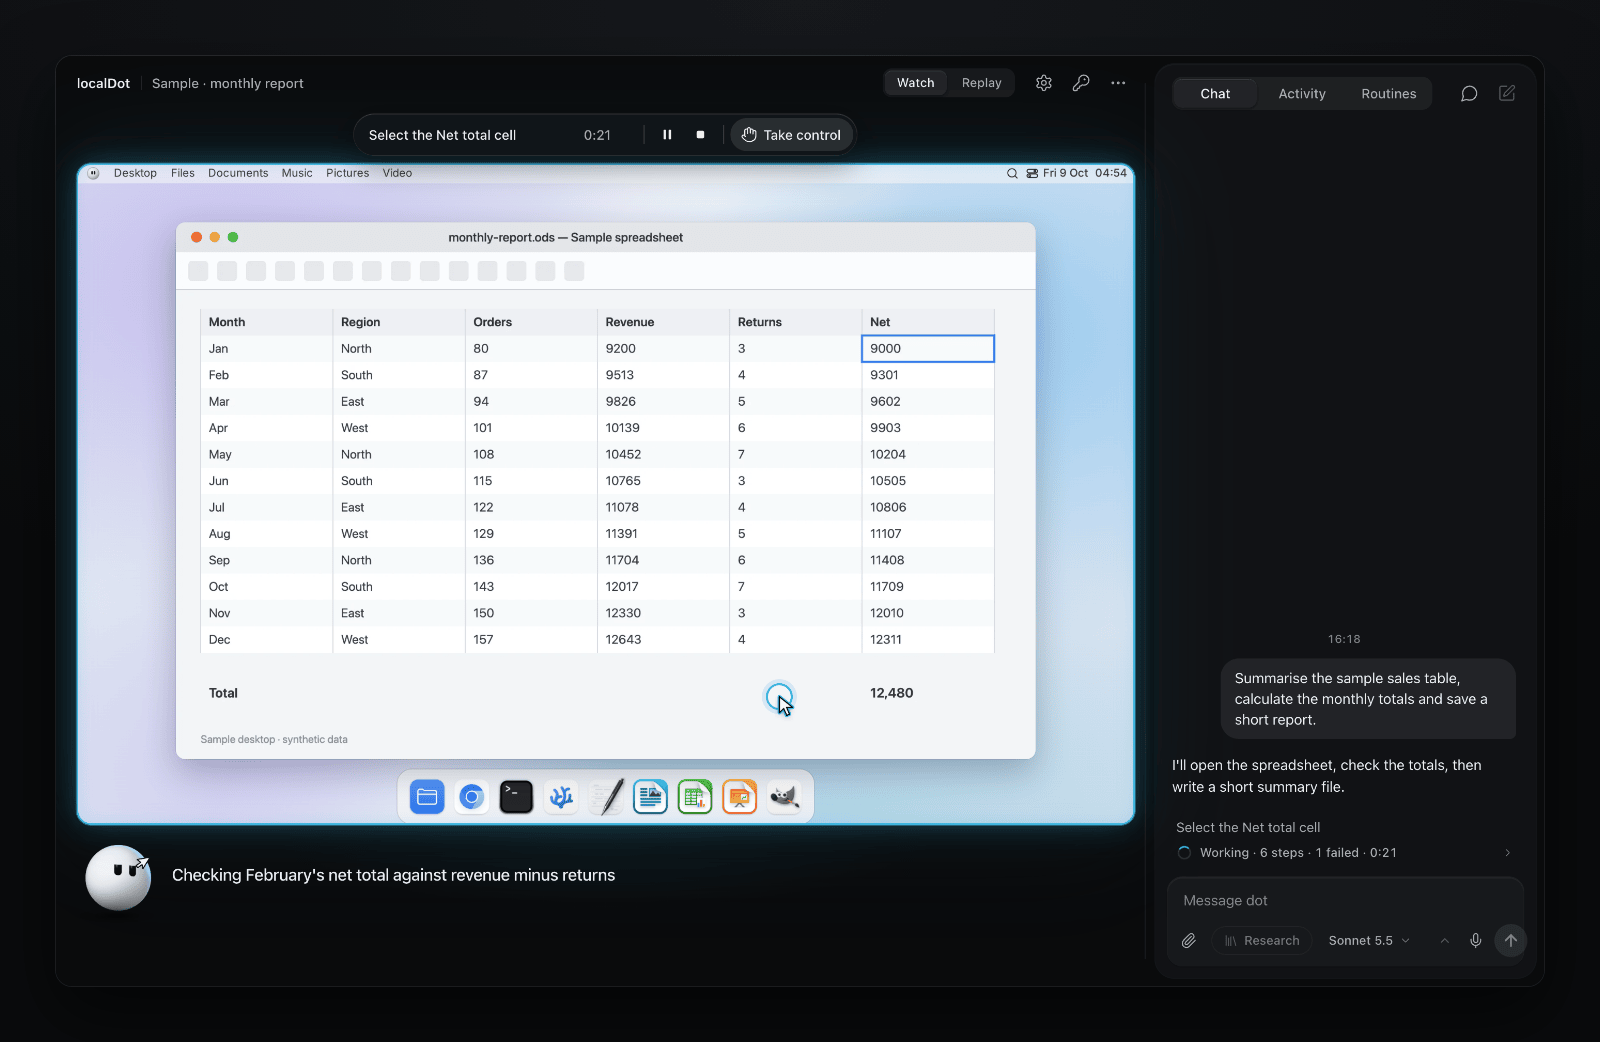
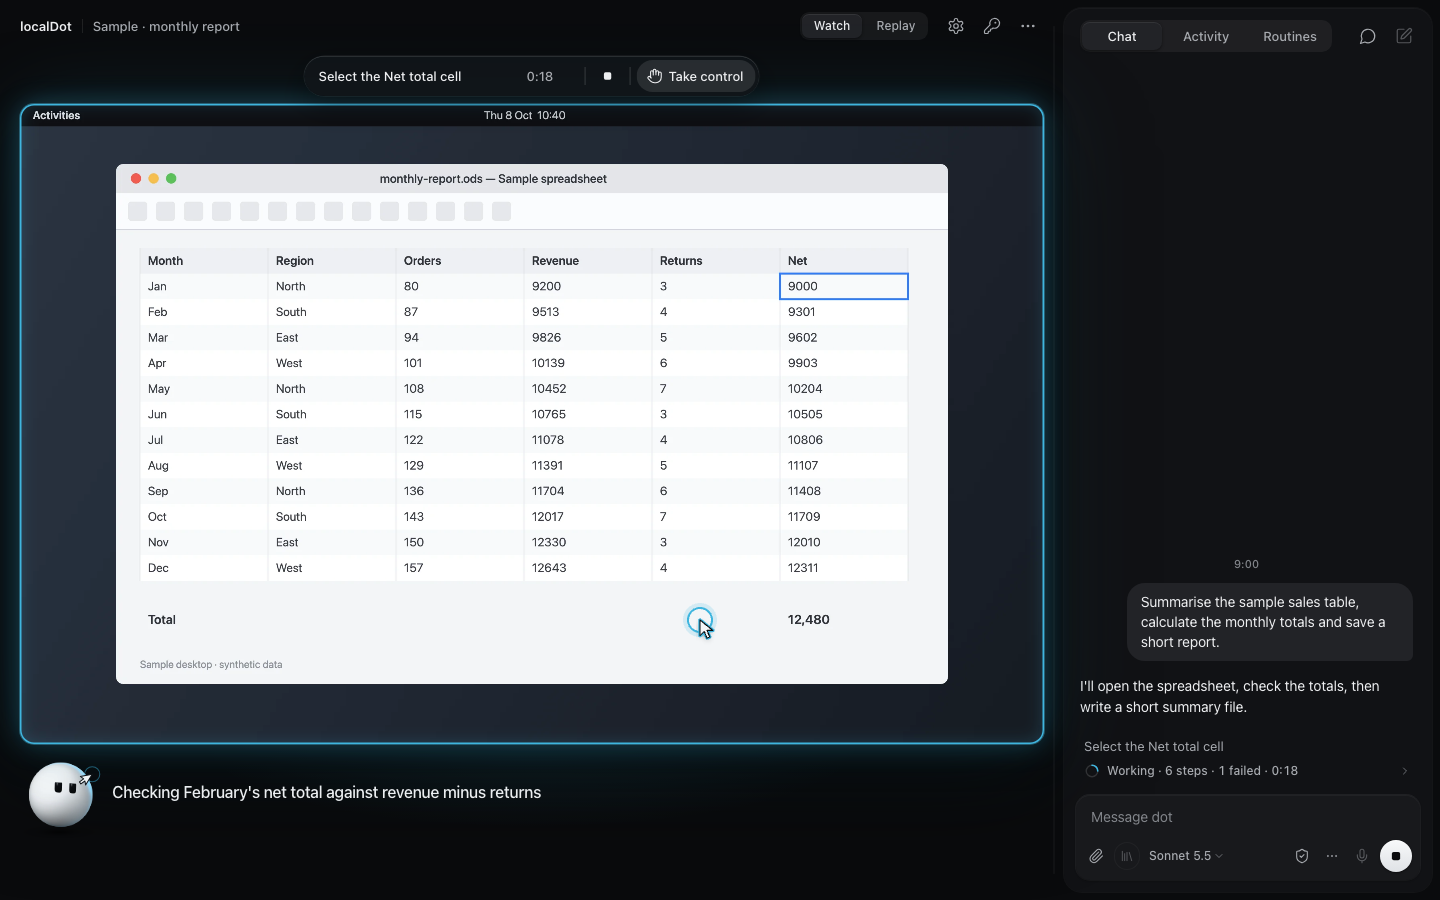
Refresh README and guides for the current agent UI

diff --git a/apps/web/e2e/ui/readme-capture.ts b/apps/web/e2e/ui/readme-capture.ts
@@ -1,0 +1,69 @@
+import { mkdir } from "node:fs/promises";
+import { fileURLToPath } from "node:url";
+import { chromium, expect } from "@playwright/test";
+import sharp from "sharp";
+import { assertFreshBuild, startUiFixture, TOKEN } from "../fixtures/start-ui-fixture.ts";
+import { skipSetup } from "../skip-setup.ts";
+
+// Capture the actual app with synthetic data; never attach to a user's running daemon.
+// From apps/web: node --import tsx e2e/ui/readme-capture.ts
+assertFreshBuild("app");
+const out = fileURLToPath(new URL("../../../../docs/readme/", import.meta.url));
+await mkdir(out, { recursive: true });
+const fixture = await startUiFixture({ QA_SCENARIO: "running", QA_NOW: "2026-10-08T09:00:00Z" });
+const browser = await chromium.launch();
+try {
+  const page = await browser.newPage({
+    viewport: { width: 1440, height: 900 },
+    deviceScaleFactor: 1,
+    reducedMotion: "reduce",
+    locale: "en-GB",
+    timezoneId: "UTC",
+    colorScheme: "dark",
+  });
+  await page.addInitScript("globalThis.__name = (fn) => fn;");
+  await skipSetup(page);
+  await page.clock.setFixedTime(new Date("2026-10-08T09:01:00Z"));
+  await page.goto(`${fixture.origin}/#token=${TOKEN}`);
+  const form = page.getByRole("form", { name: "Message dot" });
+  await expect(form.getByRole("button", { name: "Stop task", exact: true })).toBeVisible();
+  await expect(page.locator(".stage").first()).toBeVisible();
+  await page.evaluate(() => document.fonts.ready);
+  await expect
+    .poll(
+      async () => {
+        const { channels } = await sharp(await page.locator(".stage").first().screenshot()).stats();
+        return Math.max(...channels.map((channel) => channel.stdev));
+      },
+      { timeout: 15000 },
+    )
+    .toBeGreaterThan(20);
+  await page.screenshot({ path: `${out}/watch.png` });
+  await form.getByRole("button", { name: /^Permission mode:/ }).click();
+  await expect(page.getByRole("menuitemradio", { name: /^Full access/ })).toBeVisible();
+  await page.waitForTimeout(200);
+  const rail = page.locator(".rail-chat");
+  const bounds = await rail.boundingBox();
+  if (!bounds) throw new Error("Conversation panel is not visible");
+  await page.screenshot({
+    path: `${out}/permissions.png`,
+    clip: { ...bounds, y: bounds.y + bounds.height - 400, height: 400 },
+  });
+  await page.keyboard.press("Escape");
+  await form
+    .getByRole("textbox", { name: "Message" })
+    .fill("When you're finished, add a chart of the monthly totals.");
+  await form.getByRole("button", { name: "Queue message" }).click();
+  const queued = page
+    .getByRole("article", { name: "You", exact: true })
+    .filter({ hasText: "When you're finished" });
+  await expect(queued.getByRole("button", { name: "Steer now" })).toBeVisible();
+  await page.waitForTimeout(300);
+  await page.screenshot({
+    path: `${out}/queue.png`,
+    clip: { ...bounds, y: bounds.y + bounds.height - 510, height: 510 },
+  });
+} finally {
+  await browser.close();
+  await fixture.close();
+}

diff --git a/README.md b/README.md
@@ -5,7 +5,7 @@
 <h1 align="center">localDot</h1>
 
 <p align="center">
-  <b>An assistant with its own computer. It lives on your Mac, and you can watch it work.</b>
+  <b>An assistant with its own computer. It runs locally, and you can watch it work.</b>
 </p>
 
 <p align="center">
@@ -15,11 +15,10 @@
 </p>
 
 <p align="center">
-  <img src="docs/readme/tour.gif" width="880" alt="A sample task: dot works through a spreadsheet, narrating each step, asks before sending an email, then hands over two files">
+  <img src="docs/readme/watch.png" width="880" alt="localDot's current Watch view: an isolated desktop, live task controls and a chat composer with model and permission choices">
 </p>
 <p align="center">
-  <sub>Twenty seconds of a sample task: dot works through a spreadsheet, stops to ask before
-  sending anything as you, then hands over the files. <a href="docs/readme/tour.mp4">MP4 version</a>.</sub>
+  <sub>The current UI with sample data. Watch dot work, queue the next message or take control.</sub>
 </p>
 
 ## What it is
@@ -29,10 +28,10 @@ the web, reads pages, runs code and uses your apps. It just doesn't do any of th
 computer.
 
 dot (that's the assistant) gets a small, isolated computer of its own. It runs in containers on
-your Mac, and you watch it live in a browser tab or on your phone. You can take over at any
+your machine, and you watch it live in a browser tab or on your phone. You can take over at any
 moment, and every task is recorded, so you can scrub back through it later.
 
-Think of it as giving a new assistant their own desk, rather than your laptop and your passwords.
+Think of it as giving an assistant their own desk, with credentials kept in a separate local vault.
 
 Three things we cared about most:
 
@@ -41,8 +40,8 @@ Three things we cared about most:
 - **Your keys never reach the model.** The agent only ever holds stand-ins. A small key service
   on your Mac adds the real key on the way out, and only for the hosts that key belongs to.
 - **Nothing leaves without a reason.** Everything dot sends out passes one checkpoint on your Mac.
-  Sending as you, paying, passwords and uploads always ask first. Ordinary work on its own
-  computer just runs.
+  Your permission mode decides what needs confirmation. Passwords use a private input path;
+  API keys stay in the key service. Ordinary work on its own computer can just run.
 
 ## What dot can do
 
@@ -61,12 +60,20 @@ The tour below shows them at work.
 
 <img src="docs/readme/watch.png" alt="localDot in Chrome: the computer's screen in the middle with a spreadsheet open, a status island above it, dot narrating below, and the chat on the right">
 
-The picture is dot's computer, live. The island on top says what's happening and keeps Pause,
-Stop and Take control within reach. dot sits under the picture and tells you what it's doing in
-plain words. The chat is on the right, and you can type into it while dot works. Send a message
-and dot shows it's thinking straight away. The timer runs on localDot's own clock, so it doesn't
-stick or jump, even after the tab has been in the background. Earlier conversations are one click
-away, grouped by day and searchable.
+The picture is dot's computer, live. The island keeps **Stop** and **Take control** within
+reach. dot sits under the picture and tells you what it's doing. The chat is on the right;
+its controls stay on one row as you narrow the panel, with secondary options tucked into the menu.
+
+With an empty message box, the main button is **Stop**. Stopping ends the current run and releases
+it so you can start a new conversation. Start typing and that button becomes **Send**: while dot
+works, your message waits until the current task finishes. Choose **Steer now** on a queued
+message to deliver it immediately. Stopping also cancels messages still waiting in the queue.
+
+<img src="docs/readme/queue.png" width="560" alt="A queued message marked After this task, with a Steer now button and Stop in the empty composer">
+
+The timer uses localDot's own clock, including after the tab has been in the background. Earlier
+conversations are searchable and grouped by day. You can read them while you hold computer control,
+and starting a new conversation keeps the previous one out of the new thread.
 
 ### Activity
 
@@ -104,7 +111,9 @@ as Markdown and as a PDF, with the passages it quoted from each source.
 
 The chip in the message box names the model doing the work. Open it to pick from every model
 you've set up, grouped by provider and plan; **Manage models…** at the bottom takes you to
-Settings. A switch applies from the next task, and the one running keeps its model.
+Settings. Configuring another provider keeps the models you already added. A switch applies to
+the next task; the running task keeps its model. If a task is held by a model or credit limit,
+choose an available model and **Continue** retries with that selection.
 
 Under each finished reply, a quiet line names the model and the tokens it used. For a reply that
 was just talk it adds the time, and the cost when your provider billed it. Tap the line to see
@@ -118,21 +127,33 @@ Hold the mic in the message box, or press ⌥Space (Ctrl+Shift+Space off a Mac),
 words land in the message so you can check them before you send. The speech is turned into text
 on your device when the browser can do it, or by a whisper.cpp model you already have on your
 Mac. The browser's online speech service is only used if you allow it. dot can also read its
-replies aloud in your device's own voice. Your voice is never saved.
+replies aloud in your device's own voice. Cancel recording or dismiss a microphone notice to
+return immediately to the normal controls. Your voice is never saved.
 
 ### It asks, right where you are
 
 <img src="docs/readme/approval.png" alt="An approval card over the computer: Send this as you? with the target, the site, and buttons for Don't send and Send">
 
-Sending as you, paying, passwords, uploads and account changes stop and ask. The card says
-exactly what will happen, and your answer can cover just this once, the whole task, the site, or
-always. Clicking around on its own computer doesn't ask. Nobody wants to approve thirty clicks an
-hour.
+The shield in the message box opens **Permissions**:
+
+- **Custom** follows your autonomy and tool settings, including the Balanced and Careful presets.
+- **Auto** lets Jev review routine actions, asking you when it cannot approve them.
+- **Full access** runs actions without routine confirmation, while destructive actions still ask.
+
+<img src="docs/readme/permissions.png" width="560" alt="Permissions menu in the chat composer: Custom, Auto and Full access, each with a short explanation">
+
+Under the default Custom/Balanced settings, sending as you, paying, uploads and account changes
+ask first. The card says what will happen, and eligible answers can cover this once, the task,
+the site or always. Network isolation and private credential handling apply in every mode.
 
 <img src="docs/readme/ask.png" alt="dot asks for a sign-in inside the chat: username and password fields, with a note that dot types the password into the site and never sees it">
 
 When dot needs a sign-in, the form shows up in the chat (or as a sheet on your phone). You type
-the password, localDot puts it into the page, and the model never sees it.
+the account and password once. localDot saves supported browser logins in its protected local
+vault, fills the verified sign-in form and submits it. Later tasks can reuse the saved login
+for the same HTTPS site without asking again. The password stays out of model input and
+conversation logs. Verification codes, security challenges and unsupported forms may still need
+you; a handoff tells you why. See [browser sign-ins](docs/browser-workspace.md#sign-in-once).
 
 ### Take over any time
 
@@ -140,7 +161,7 @@ the password, localDot puts it into the page, and the model never sees it.
 
 Press **Take control** and the computer is yours: mouse, keyboard, paste, the lot. dot can't see
 or touch anything until you hand it back, and that stretch isn't recorded. Full screen is one
-click away when you want the whole display.
+click away when you want the whole display. Conversation history stays available during takeover.
 
 ### Your apps, as tools
 
@@ -149,8 +170,8 @@ click away when you want the whole display.
 Some jobs are quicker without the screen. In **Settings → Connectors** you can give dot your
 apps directly: GitHub, Linear, Notion, Sentry, Brave Search and DeepWiki are a click away, and any
 other MCP server can be added by its address or the command that runs it. Each tool is set to
-**Just runs**, **Asks first** or **Off**. Reading runs; anything that changes something asks
-first, and the card shows exactly what dot would send. Keys and sign-ins stay in keyd and only
+**Just runs**, **Asks first** or **Off**. With Custom permissions, reading runs and changes ask
+first by default; the card shows exactly what dot would send. Keys and sign-ins stay in keyd and only
 ever go to their own app. An app that runs as a program gets a sealed cell of its own: read-only,
 none of your files, and no way out except through keyd.
 
@@ -207,9 +228,9 @@ editable and deletable), the sites you're signed in to, your apps, and your keys
 
 It's Linux in containers, dressed to feel familiar: menu bar, dock, a launcher, traffic lights.
 It comes with Chromium, LibreOffice, GIMP, a code editor and a terminal. Sign-ins in its web
-browser stay put across restarts and new tasks, so you log in once. If the web browser ever
-fails, dot carries on in the desktop's Chromium (without your sign-ins) instead of stopping the
-task or the computer.
+browser stay put across restarts and new tasks, so you log in once. If the web browser stops
+answering, localDot attempts to restart it with the saved profile.
+A failed browser action is never silently redirected into the desktop's Chromium.
 
 <img src="docs/readme/computer-launcher.png" alt="The launcher open over LibreOffice Calc, with calc typed in the search field">
 
@@ -273,7 +294,7 @@ up in the same step list.
   <img src="docs/readme/safety.png" alt="Pencil sketch of six walls between dot and the internet: hard checks, purpose check, approvals, the isolated computer, the network gate and stand-in keys. Searching, reading and clicking pass straight through; sending an email as you asks; posting your notes to a random site asks; poking the router is blocked; smuggling out an API key only gets a stand-in.">
 </picture>
 
-What asks and what doesn't, on the default **Balanced** setting:
+What asks and what doesn't, with **Custom** permissions and the default **Balanced** preset:
 
 | dot wants to… | What happens |
 | --- | --- |
@@ -283,7 +304,7 @@ What asks and what doesn't, on the default **Balanced** setting:
 | Run code or a terminal command on its own computer | Just runs |
 | Send a message or email as you, or post as you | Asks first |
 | Pay for or buy something | Asks first |
-| Enter a password or another secret | Asks you to type it; the model never sees it |
+| Sign in to a supported HTTPS site | Uses a saved login or asks once in a private form; the model never sees the password |
 | Upload your files somewhere | Asks first |
 | Change account settings or delete data on a remote service | Asks first |
 | Change something with one of your apps | Asks first, with exactly what it would send (you can set each tool) |
@@ -292,7 +313,8 @@ What asks and what doesn't, on the default **Balanced** setting:
 | Reach your LAN, your router or cloud metadata | Blocked |
 | Use an API key | Gets a stand-in; the real key is added at the edge, for that key's hosts only |
 
-**Careful** mode asks before every step except reading and browsing. Either way, your answer
+The **Careful** preset asks before every step except reading and browsing. **Auto** and
+**Full access** change the confirmation policy as described above. Eligible answers
 can be scoped: just this once, for this task, for this site, or always, and you can take an
 "always" back in Settings.
 
@@ -419,8 +441,9 @@ No. dot works on its own computer, in containers. It sees your files only when y
 and its results open on your Mac only when you click Open.
 
 **Could it email my boss without asking?**
-No. Sending as you always needs your OK, and the card shows exactly what's going out. Your boss
-remains blissfully unaware.
+With the default Custom/Balanced settings, sending as you asks first and the card shows what
+would be sent. Auto can approve routine actions through Jev; Full access allows sending without
+a routine confirmation. Choose the permission mode that matches the authority you want to give dot.
 
 **What does it cost?**
 localDot is free and MIT licensed. Models cost whatever your provider charges, and localDot shows

diff --git a/docs/browser-workspace.md b/docs/browser-workspace.md
@@ -1,7 +1,7 @@
 # Browser workspace
 
-This guide describes the M7 author draft. Final integration and independent review are still
-pending; an older development preview may not contain these controls.
+This guide describes the current development UI. Older installed builds may not contain all
+of these controls.
 
 ## Two screens for one task
 
@@ -35,7 +35,22 @@ computers each had a profile, the current computer's profile is used.
 To sign in yourself, open **Settings → Accounts** and use **Sign in to a site**: type a site such
 as google.com, or pick a common one. The web browser opens that site's sign-in page and you are in
 control there; hand the computer back when you are done, and the site appears in the list. dot
-signs in the same way, only ever in the web browser.
+uses the protected sign-in flow below, only in the web browser.
+
+When dot asks for an account and password in chat, the daemon delivers them through a private
+browser input channel. For a supported HTTPS sign-in, it verifies the password field, fills the
+account and password, and submits the same-origin POST form in one operation. Ordinary model
+clicks and typing still cannot enter a password field. The model sees the result, never the
+password, and credentials are excluded from conversation events.
+
+Supported logins are saved in keyd's protected store (Keychain, keyring or encrypted file,
+depending on the installation), bound to the exact HTTPS origin. One account is saved per origin;
+a later answer replaces it. A future task can reuse it once before asking for updated credentials
+if the site rejects it. Two-factor authentication, security challenges and forms the protected
+path cannot verify may require your input or a clearly explained takeover.
+
+Saved passwords and browser cookies are separate. **Sign out** clears browser sign-in state;
+it does not delete the saved password in keyd. There is not yet a saved-password management UI.
 
 **Settings → Accounts** lists the sites with stored sign-ins, grouped by site, with **Sign out**
 for one site (its cookies, including partitioned ones, and the saved data of the hosts they were
@@ -97,8 +112,9 @@ separate interaction.
 
 ## Stop, replay and recovery
 
-**Stop** withdraws agent control and contains both screens and their active transfers. Recovery
-waits for in-flight work to drain before another task may take ownership. Do not treat an
+**Stop task** cancels the run and its queued messages, withdraws agent control and waits for
+in-flight work to drain before a new conversation can take ownership. It does not leave a paused
+task holding the computer. The CLI emergency Stop and Stop computer remain separate controls. Do not treat an
 interrupted upload or release as proof that the receiving side saw no bytes.
 
 Replay records both screens while the agent is working, including when you are not watching.

diff --git a/docs/development.md b/docs/development.md
@@ -3,13 +3,15 @@
 The [README](../README.md) is the tour. This page is the workshop: how to build, run and test
 localDot from source, and the details behind each part.
 
-The [browser workspace guide](browser-workspace.md) covers the M7 author draft's separate
-web browser, manual sign-in, reviewed downloads and approved uploads. Final integration
-and independent review are pending.
+The [browser workspace guide](browser-workspace.md) covers the separate web browser, protected
+saved logins, manual takeover, reviewed downloads and approved uploads.
 
 ## Development
 
-The shipping CLI is an author draft pending independent review and installed acceptance.
+The release-based CLI in `apps/cli` is an author draft pending independent review and installed
+acceptance. The README's `install.sh` uses the existing source installer; its branch-based update
+commands are documented in [Installing localDot](install.md). The following release commands
+apply to the release-based CLI:
 For a managed installation, `localdot update` checks for the latest stable release;
 `localdot update --to 1.2.3-rc.2` selects an exact version (including a release candidate).
 Both recover interrupted updates first and authenticate the exact release before activation.
@@ -51,8 +53,9 @@ subprotocols `localdot.v1, localdot.token.<token>`.
 - Build the UI with `pnpm --filter @localdot/web build`, start the daemon, then open its
   `#token=` link. **Start computer** creates an isolated desktop, gate and named home volume.
   The live stream reaches Chrome through the daemon. **Stop computer** shuts it down while
-  keeping the home volume for the next start. During a session, **Stop** freezes it;
-  **Resume computer** continues it with fresh key stand-ins.
+  keeping the home volume for the next start. **Stop task** in the composer ends the agent run
+  and releases it for a new conversation. The CLI emergency Stop freezes the computer;
+  **Resume computer** continues a frozen computer with fresh key stand-ins.
 - The desktop has the WhiteSur light theme, a menu bar and a Plank dock. Pinned versions and
   licenses are in `cells/desktop/THIRD-PARTY.md`.
 - `LOCALDOT_DOCKER_TESTS=1 pnpm test:docker` runs the Docker suites.

diff --git a/keyd/README.md b/keyd/README.md
@@ -1,8 +1,17 @@
 # keyd
 
-keyd is localDot's key layer: the only process that holds real secrets. It keeps its state in
+keyd is localDot's key layer: it stores real credentials and issues scoped API-key stand-ins. It keeps its state in
 `<home>/keyd`, answers the daemon on `<home>/keyd/admin.sock` and stores secret values as Keychain
 items whose access list trusts only keyd of generation 2 or later, signed by team `87FD3FSZBG`.
+
+## Saved browser logins
+
+Browser account/password pairs use the same protected store, in a reserved `login-` namespace
+bound to the exact HTTPS origin. They are not listed as API keys or issued as surrogates. The
+daemon saves and retrieves them over the private admin socket, then delivers them through the
+browser's protected input channel; values do not enter model input, conversation events or audit
+payloads. One login is stored per origin. Browser sign-out clears cookies separately from these
+saved passwords. See [browser sign-ins](../docs/browser-workspace.md#sign-in-once).
 
 ## Two binaries
 

diff --git a/docs/install.md b/docs/install.md
@@ -79,9 +79,11 @@ gets the key service's socket through a read-only folder, `~/.localdot/keyd/rela
 `localdot doctor` checks this with a test computer (`gate-relay`). Docker from the Snap Store
 can't share that hidden folder: install Docker Engine from docs.docker.com instead.
 
-## Saved keys
+## Saved keys and logins
 
-Your provider keys are kept by the key service, and the computers only ever see stand-ins:
+Your provider keys are kept by the key service, and the computers only ever see stand-ins.
+Saved browser accounts and passwords use the same protected store through a separate private
+input channel; they are bound to the exact HTTPS site and never supplied to the model:
 
 - **Linux with a desktop keyring** (GNOME Keyring, KWallet): in the keyring.
 - **Linux without one**, such as a server or WSL 2: in an encrypted file. With systemd 256 or

diff --git a/apps/web/e2e/ui/README.md b/apps/web/e2e/ui/README.md
@@ -43,3 +43,7 @@ pnpm --filter @localdot/web exec playwright test -c playwright.ui.config.ts --pr
 - **Before capture:** `node --import tsx e2e/ui/plan-capture.ts` and `e2e/ui/plan-states.ts` write
   reference screenshots and control notes of today's app to `e2e/out/before` (or `$OUT`), outside
   the harness's own output, which Playwright empties on every run.
+
+- **README screenshots:** after building the app, run
+  `node --import tsx e2e/ui/readme-capture.ts` from `apps/web`. This refreshes Watch, Permissions
+  and the message queue in `docs/readme` using a separate fixture daemon and synthetic data.
